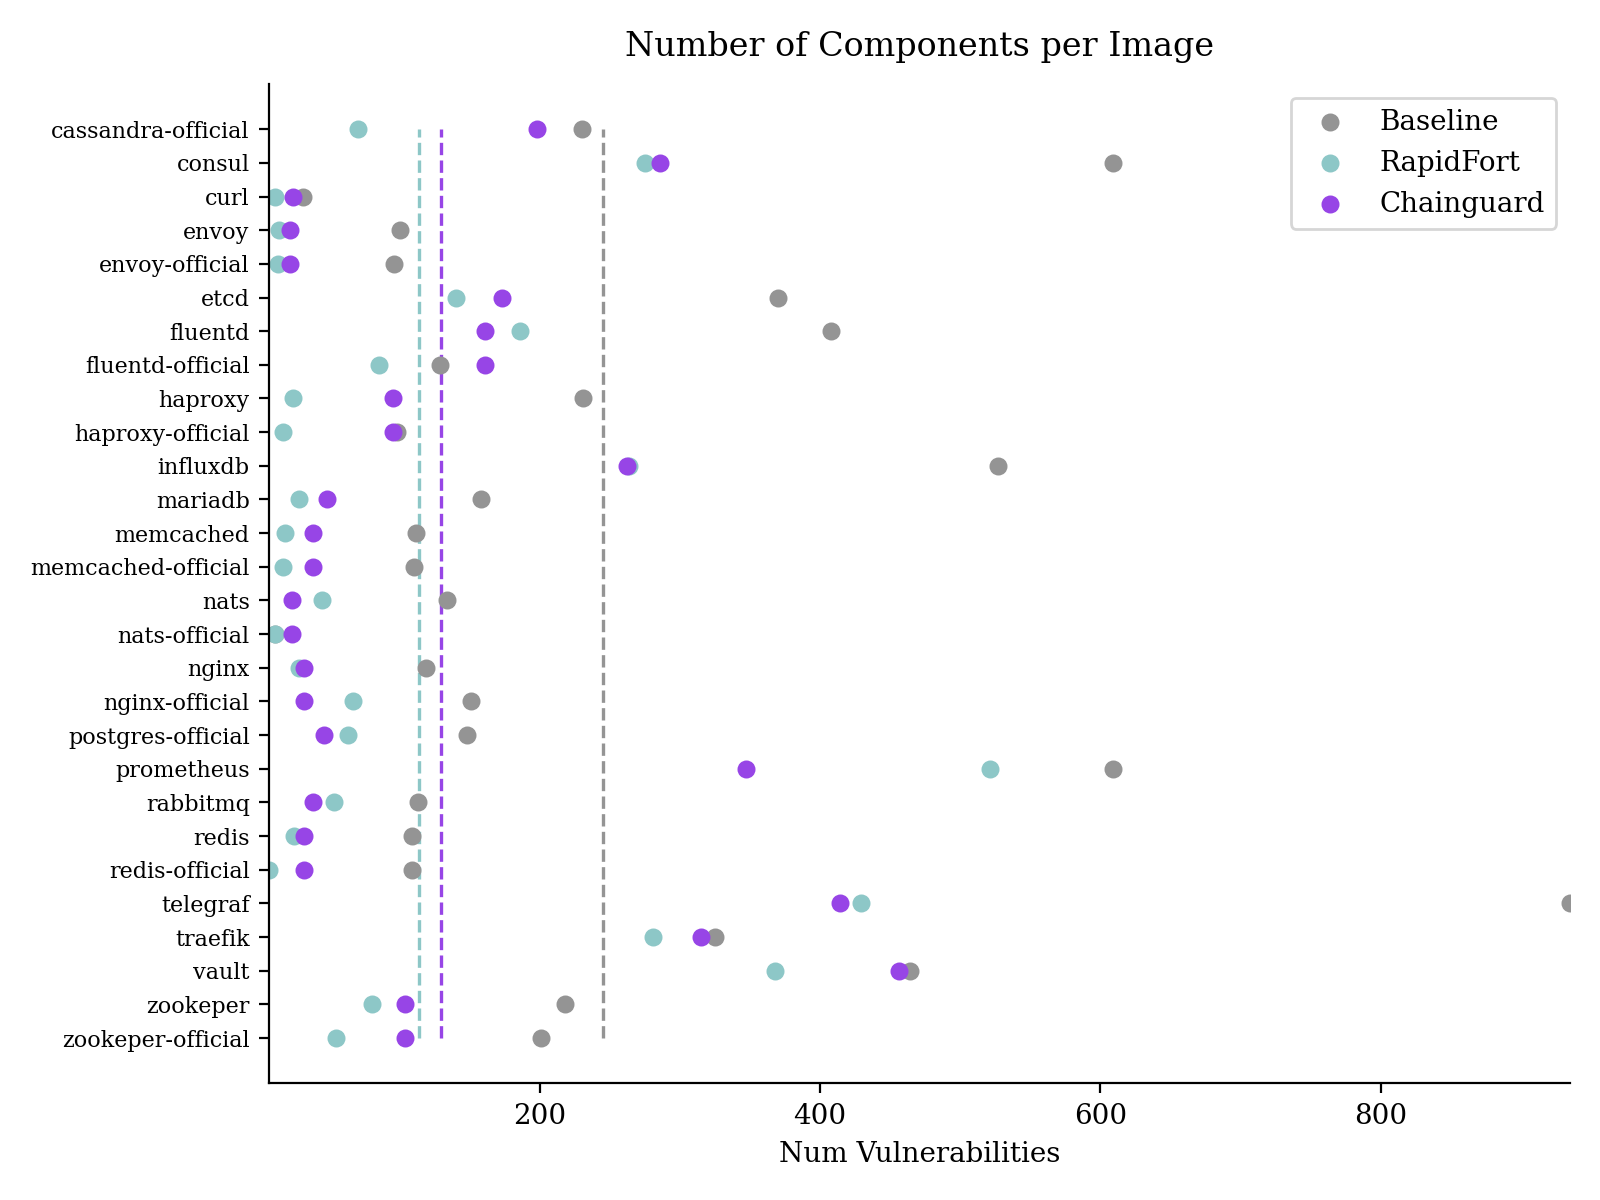
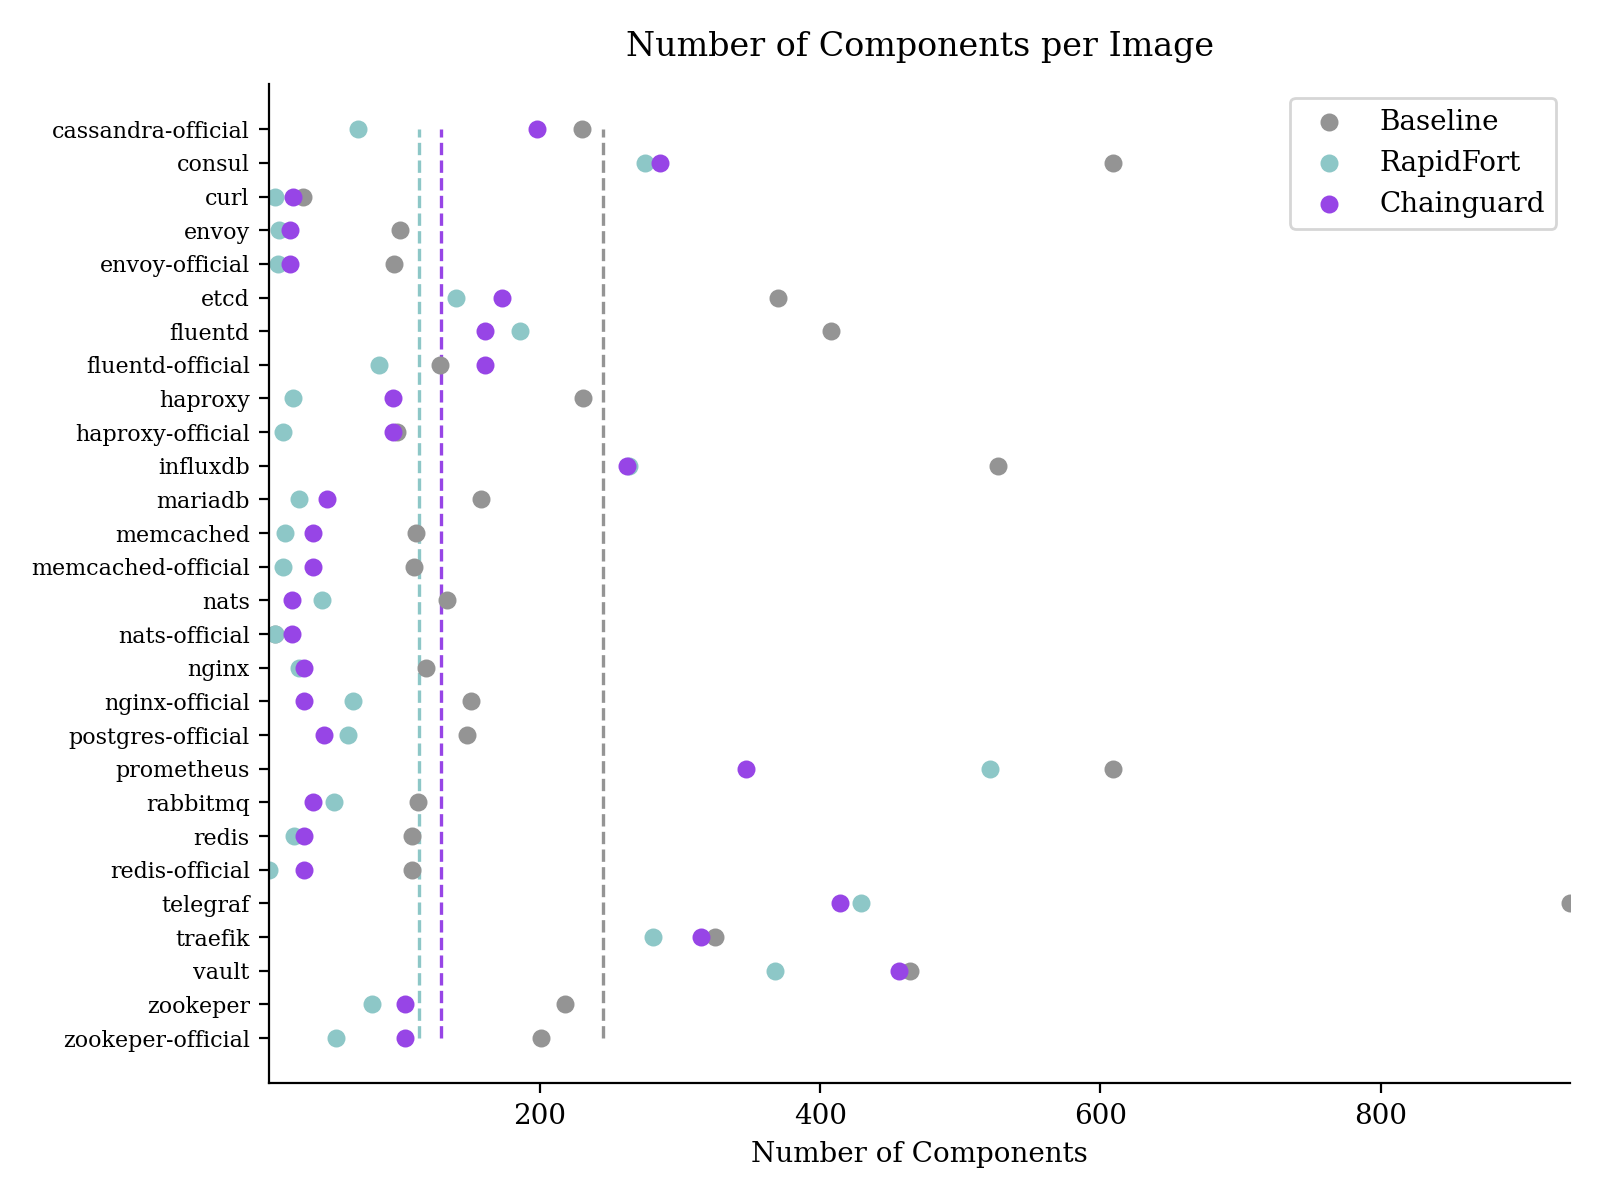
Fixed x axis label for comp figure

diff --git a/scripts/3_analyze.py b/scripts/3_analyze.py
@@ -93,7 +93,7 @@ FIGURES = [
     FigureParams(
         column="n_components",
         title="Number of Components per Image",
-        xlabel="Num Vulnerabilities",
+        xlabel="Number of Components",
         filename="comps_fig.png"
     ),
     FigureParams(
